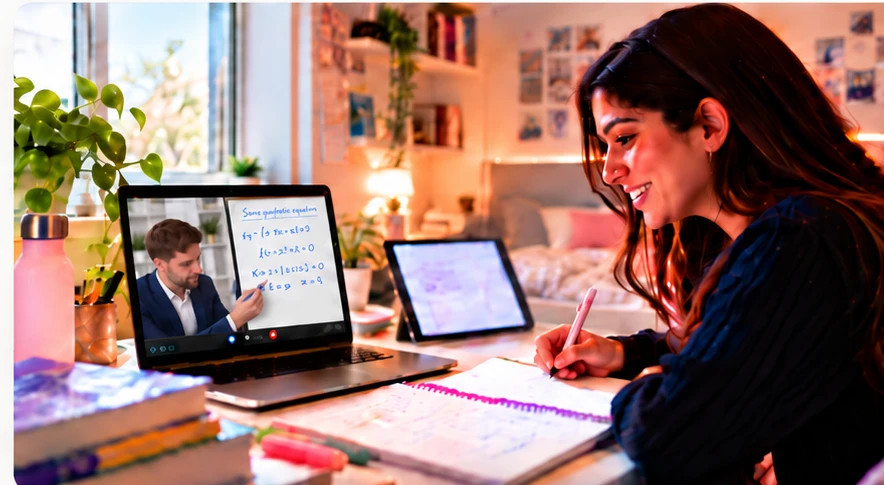
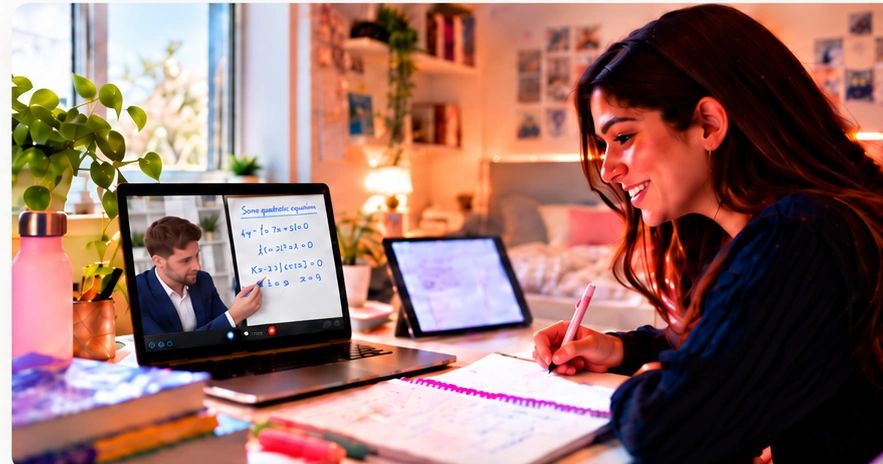
V5 REDONE

diff --git a/src/styles.css b/src/styles.css
@@ -455,3 +455,88 @@
   .hero-tutor-card-final{width:96%;max-width:96%;grid-template-columns:1fr;margin-top:22px;min-height:500px}
   .hero-tutor-photo-panel{height:220px;min-height:220px}
 }
+
+/* ============================================================
+   V5 REDONE — exact approved first-viewport proportions
+   Source of truth: docs/V5-HOMEPAGE-APPROVED-REFERENCE.png
+   ============================================================ */
+@media (min-width:1101px){
+  .hero--first-viewport .hero-grid{
+    width:min(1560px,calc(100% - 72px));
+    grid-template-columns:minmax(0,.72fr) minmax(0,1fr);
+    gap:44px;
+    align-items:start;
+  }
+  .hero--first-viewport .hero-copy{padding-top:38px}
+}
+
+.hero-visual--photo{
+  width:100%;
+  min-height:0;
+  display:flex;
+  flex-direction:column;
+  align-items:stretch;
+  justify-content:flex-start;
+}
+.hero-photo-frame{
+  position:relative;
+  inset:auto;
+  width:100%;
+  aspect-ratio:883 / 464;
+  border-radius:22px;
+  overflow:hidden;
+  flex:0 0 auto;
+  box-shadow:none;
+}
+.hero-photo-frame img{
+  width:100%;
+  height:100%;
+  display:block;
+  object-fit:cover;
+  object-position:center center;
+}
+
+/* Exact approved tutor-card artwork: keeps portrait, sizing, typography and spacing locked. */
+.hero-tutor-card-approved{
+  position:relative;
+  width:80%;
+  max-width:80%;
+  align-self:flex-end;
+  margin:16px 7.5% 0 0;
+  border-radius:22px;
+  overflow:hidden;
+  box-shadow:0 24px 58px rgba(11,31,51,.20);
+  line-height:0;
+}
+.hero-tutor-card-approved>img{
+  display:block;
+  width:100%;
+  height:auto;
+}
+.hero-tutor-card-approved-cta{
+  position:absolute;
+  z-index:3;
+  left:39.5%;
+  right:0;
+  bottom:2%;
+  height:18.5%;
+  border-radius:0 0 15px 0;
+  cursor:pointer;
+}
+.hero-tutor-card-approved-cta:focus-visible{
+  outline:3px solid #fff;
+  outline-offset:-5px;
+}
+
+@media (max-width:1100px){
+  .hero-tutor-card-approved{width:80%;max-width:80%;margin:16px auto 0}
+  .hero-photo-frame{aspect-ratio:883 / 464}
+}
+@media (max-width:800px){
+  .hero-tutor-card-approved{width:86%;max-width:86%;margin-top:16px}
+}
+@media (max-width:520px){
+  .hero-tutor-card-approved{width:96%;max-width:96%;margin-top:14px;border-radius:16px}
+  .hero-tutor-card-approved-cta{left:39.5%;height:18.5%}
+}
+.hero--first-viewport .hero-photo-frame:after{background:none}

diff --git a/src/pages/HomePage.tsx b/src/pages/HomePage.tsx
@@ -40,24 +40,13 @@ export function HomePage() {
           <div className="hero-photo-frame">
             <img src="/images/home-hero-online-tutoring.webp" alt="Student taking part in a live online mathematics lesson with a tutor" />
           </div>
-          <div className="hero-tutor-card-final">
-            <div className="hero-tutor-photo-panel">
-              <img src="/images/james-whitmore.webp" alt="Mr. James Whitmore, Mathematics Specialist" />
-              <div className="hero-tutor-specialism"><strong>Mathematics</strong><span>Specialist</span></div>
-            </div>
-            <div className="hero-tutor-content">
-              <div className="hero-tutor-kicker">Your Personalised Tutor Match</div>
-              <div className="hero-tutor-name">Mr. James Whitmore</div>
-              <div className="hero-tutor-title">GCSE & A-Level Mathematics</div>
-              <div className="hero-tutor-details">
-                <span><GraduationCap/><b>UK-Qualified Teacher</b></span>
-                <span><BadgeCheck/><b>PGCE · BSc Mathematics · MA Education</b></span>
-                <span><Users/><b>8+ Years Teaching Experience</b></span>
-                <span><MapPin/><b>Based in London, United Kingdom</b></span>
-                <span><Laptop/><b>Remote Tutoring Available</b></span>
-              </div>
-              <Link to="/book-free-trial?subject=Mathematics" className="hero-tutor-cta">Book a <strong>FREE</strong> Trial <ArrowRight size={19}/></Link>
-            </div>
+          <div className="hero-tutor-card-approved" aria-label="Your Personalised Tutor Match: Mr. James Whitmore, GCSE and A-Level Mathematics, UK-Qualified Teacher, PGCE, BSc Mathematics, MA Education, 8+ Years Teaching Experience, based in London, United Kingdom, Remote Tutoring Available.">
+            <img src="/images/tutor-card-v5-approved.webp" alt="Mr. James Whitmore personalised tutor match card" />
+            <Link
+              to="/book-free-trial?subject=Mathematics"
+              className="hero-tutor-card-approved-cta"
+              aria-label="Book a FREE Trial with a Mathematics tutor"
+            />
           </div>
         </div>
       </div>

diff --git a/VERSION-V5-REDONE.md b/VERSION-V5-REDONE.md
@@ -1,0 +1,21 @@
+# 5 STAR TUITION — V5 REDONE
+
+**CURRENT BUILD: V5 REDONE**
+
+## Purpose of this corrected build
+This build corrects the homepage first viewport so the live site matches the approved V5 visual reference rather than the incorrectly scaled previous V5 deployment.
+
+## Locked corrections
+- Main homepage tuition image uses the exact approved V5 composition and proportions.
+- Tutor card uses the exact approved V5 visual, including the approved Mr. James Whitmore portrait, typography, details, colours and button.
+- Tutor card is landscape, approximately 80% of the width of the main image, and sits beneath the main image with the approved small two-line visual gap.
+- Tutor-card FREE Trial button remains clickable and routes to the Mathematics trial-booking flow.
+- Desktop hero width and column proportions are widened to reproduce the approved first-viewport composition.
+- Mobile/tablet presentation remains responsive while preserving the tutor-card aspect ratio.
+- No trial-booking functionality from V4/V5 has been removed.
+
+## Source of truth
+`docs/V5-HOMEPAGE-APPROVED-REFERENCE.png`
+
+## GitHub upload rule
+Upload the CONTENTS of this folder directly to the root of the `5StarTuition` repository. Do not upload the outer V5 REDONE folder itself.

diff --git a/BUILD_STATUS.md b/BUILD_STATUS.md
@@ -1,11 +1,17 @@
-# BUILD STATUS — V5
+# BUILD STATUS — V5 REDONE
 
-**CURRENT BUILD: V5**
+**CURRENT BUILD: V5 REDONE**
 
-- Homepage V5 UI changes: implemented
-- Approved primary logo: implemented
-- Approved hero image: implemented
-- Approved Layout Option 3 (two-line gap): implemented
-- Tutor card: approved content preserved
-- FREE-trial booking flow: retained from V4
-- Cloudflare project root: `/`
+## Corrected
+- Approved V5 main homepage image embedded at the correct aspect ratio.
+- Approved V5 tutor card embedded as the exact locked visual, preventing portrait/text wrapping and sizing drift.
+- Tutor card set to the approved landscape proportions and two-line visual gap.
+- Desktop hero widened to closely match the approved first-viewport reference.
+- Existing FREE-trial booking functionality retained.
+
+## Deployment
+Cloudflare Root directory: `/`
+Build command: `npm run build`
+Deploy command: `npx wrangler deploy`
+
+Note: local npm dependency installation timed out in the build environment; final validation should occur through the existing Cloudflare build pipeline.

diff --git a/README.md b/README.md
@@ -1,6 +1,6 @@
-# 5 STAR TUITION — V5
+# 5 STAR TUITION — V5 REDONE
 
-**CURRENT VERSION: V5**
+**CURRENT VERSION: V5 REDONE**
 
 # 5 STAR TUITION
 ## Locked brand reference
